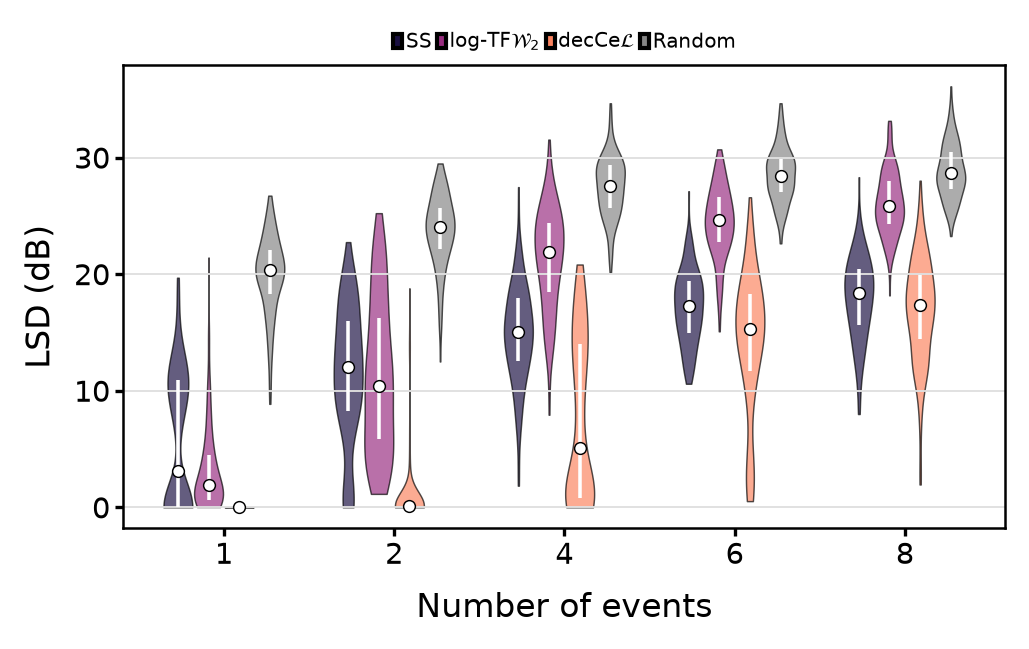
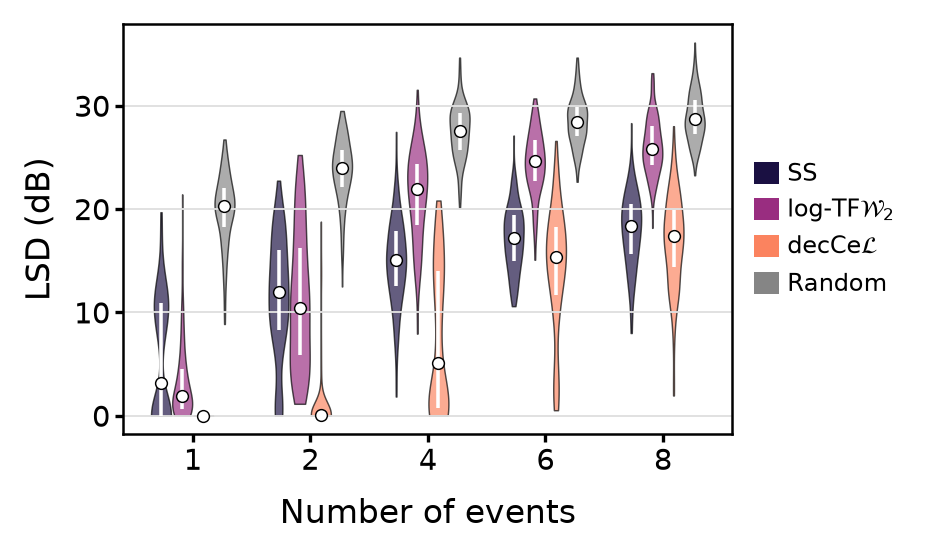
Compact Figure 5 legend

Changed region(s): [[0.0, 0.0306, 0.9968, 0.9495]]

diff --git a/scripts/report_nine_loss_recovery.py b/scripts/report_nine_loss_recovery.py
@@ -636,7 +636,7 @@ def render_lsd(lsd: dict, output_stem: Path) -> dict[str, str]:
         "dec_cel": cmap(0.74),
         "random": (0.52, 0.52, 0.52, 1.0),
     }
-    figure, axis = plt.subplots(figsize=(3.5, 2.45))
+    figure, axis = plt.subplots(figsize=(3.5, 1.9))
     offsets = np.linspace(-0.27, 0.27, len(LSD_FIGURE_LOSSES))
     for loss_index, loss in enumerate(LSD_FIGURE_LOSSES):
         for cardinality_index, cardinality in enumerate(recovery.CARDINALITIES):
@@ -677,24 +677,25 @@ def render_lsd(lsd: dict, output_stem: Path) -> dict[str, str]:
     axis.tick_params(labelsize=7, length=2.0, pad=1.2)
     axis.grid(axis="y", color="0.88", linewidth=0.45)
     handles = [
-        Patch(facecolor=colors[loss], edgecolor="black", label=label)
+        Patch(facecolor=colors[loss], edgecolor="none", label=label)
         for loss, label in zip(LSD_FIGURE_LOSSES, LSD_FIGURE_LABELS, strict=True)
     ]
     axis.legend(
         handles=handles,
-        ncol=len(handles),
-        loc="lower center",
-        bbox_to_anchor=(0.5, 1.01),
+        ncol=1,
+        loc="center left",
+        bbox_to_anchor=(1.02, 0.5),
         frameon=False,
-        fontsize=4.8,
-        handlelength=0.45,
-        handletextpad=0.18,
-        columnspacing=0.25,
+        fontsize=5.7,
+        handlelength=1.05,
+        handleheight=1.05,
+        handletextpad=0.35,
+        labelspacing=0.5,
         borderaxespad=0.0,
     )
     for spine in axis.spines.values():
         spine.set_linewidth(0.6)
-    figure.subplots_adjust(left=0.15, right=0.99, bottom=0.21, top=0.84)
+    figure.subplots_adjust(left=0.16, right=0.74, bottom=0.26, top=0.98)
     paths = {suffix: output_stem.with_suffix(f".{suffix}") for suffix in ("pdf", "png")}
     for path in paths.values():
         save_figure(figure, path, pad_inches=0.08)
